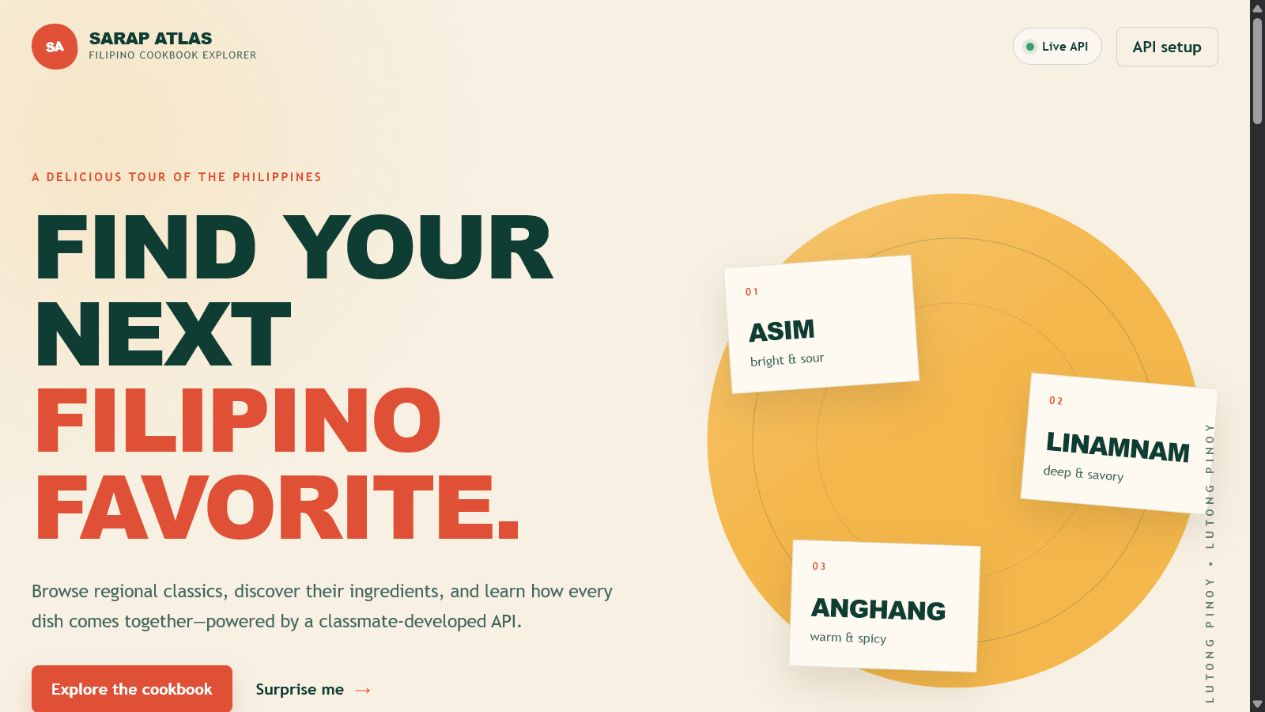
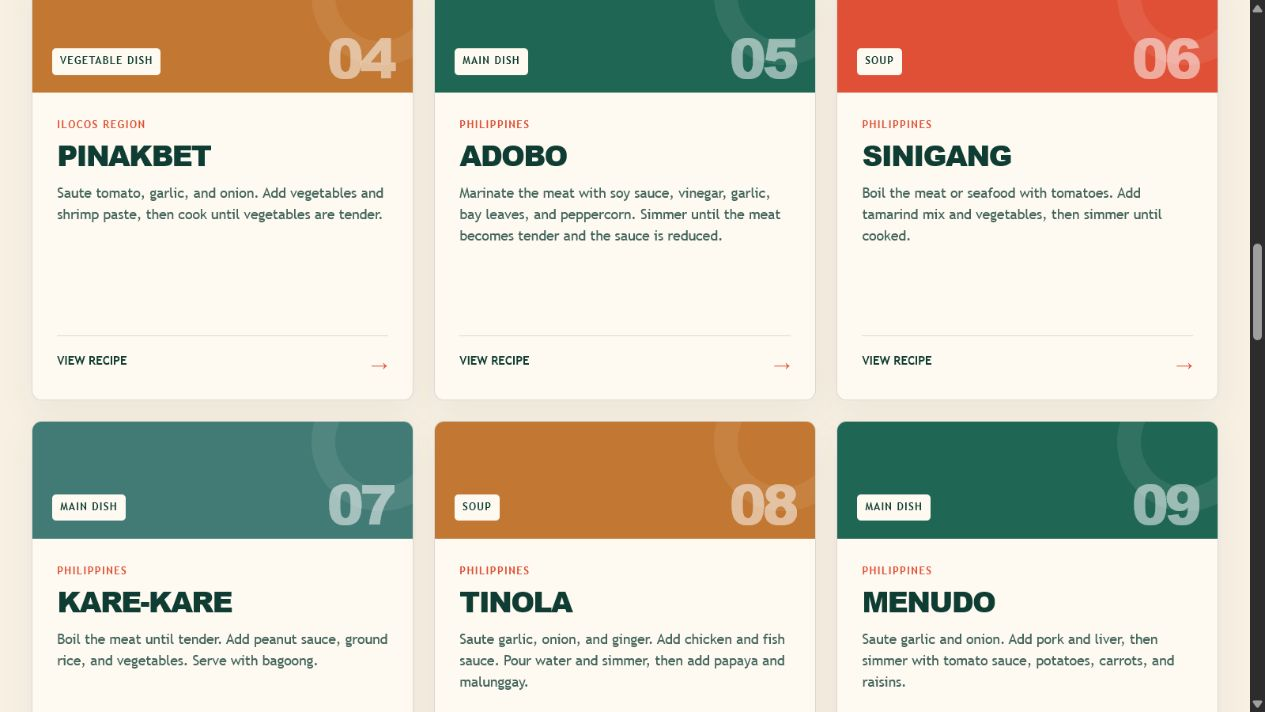
Integrate Louise Sanchez cookbook API

diff --git a/app/CookbookClient.tsx b/app/CookbookClient.tsx
@@ -24,8 +24,10 @@ const defaultSettings: SourceSettings = {
     "http://localhost:8080",
   token: "",
   developerName:
-    process.env.NEXT_PUBLIC_API_DEVELOPER || "[SELECTED CLASSMATE]",
-  repositoryUrl: process.env.NEXT_PUBLIC_API_REPOSITORY || "",
+    process.env.NEXT_PUBLIC_API_DEVELOPER || "Louise Sanchez",
+  repositoryUrl:
+    process.env.NEXT_PUBLIC_API_REPOSITORY ||
+    "https://github.com/louise-jpg/filipino-cookbook-api-sanchez",
 };
 
 function asText(value: unknown, fallback = ""): string {
@@ -38,6 +40,11 @@ function asId(value: unknown, fallback: number): number {
 }
 
 function normalizeIngredients(value: unknown): string[] {
+  if (value && typeof value === "object" && !Array.isArray(value)) {
+    const record = value as Record<string, unknown>;
+    if ("ingredients" in record) return normalizeIngredients(record.ingredients);
+  }
+
   if (Array.isArray(value)) {
     return value
       .map((item) => {
@@ -177,11 +184,14 @@ export default function CookbookClient() {
   }, [foods, search, category, origin]);
 
   async function apiRequest(path: string, source = settings): Promise<unknown> {
-    const response = await fetch(`${source.baseUrl}${path}`, {
+    const response = await fetch("/api/cookbook", {
+      method: "POST",
       headers: {
         Accept: "application/json",
         Authorization: `Bearer ${source.token}`,
+        "Content-Type": "application/json",
       },
+      body: JSON.stringify({ baseUrl: source.baseUrl, path }),
     });
     let payload: unknown;
     try {
@@ -206,7 +216,7 @@ export default function CookbookClient() {
       ...draftSettings,
       baseUrl: draftSettings.baseUrl.trim().replace(/\/$/, ""),
       developerName:
-        draftSettings.developerName.trim() || "[SELECTED CLASSMATE]",
+        draftSettings.developerName.trim() || "Louise Sanchez",
     };
     if (!source.baseUrl || !source.token) {
       setError("Enter the API base URL and bearer token.");
@@ -305,7 +315,7 @@ export default function CookbookClient() {
   }
 
   const activeDeveloper =
-    mode === "live" ? settings.developerName : "[SELECTED CLASSMATE]";
+    mode === "live" ? settings.developerName : defaultSettings.developerName;
 
   return (
     <main>

diff --git a/app/api/cookbook/route.ts b/app/api/cookbook/route.ts
@@ -1,0 +1,64 @@
+const LOCAL_API_HOSTS = new Set(["localhost", "127.0.0.1", "::1"]);
+
+type ProxyRequest = {
+  baseUrl?: unknown;
+  path?: unknown;
+};
+
+function targetUrlFor(body: ProxyRequest): URL {
+  if (typeof body.baseUrl !== "string" || typeof body.path !== "string") {
+    throw new Error("The API base URL and endpoint path are required.");
+  }
+
+  const baseUrl = new URL(body.baseUrl);
+  if (
+    !["http:", "https:"].includes(baseUrl.protocol) ||
+    baseUrl.username ||
+    baseUrl.password
+  ) {
+    throw new Error("The API base URL is not valid.");
+  }
+  if (!LOCAL_API_HOSTS.has(baseUrl.hostname)) {
+    throw new Error("Only a locally running classmate API is allowed.");
+  }
+  if (baseUrl.hostname === "localhost") {
+    baseUrl.hostname = "127.0.0.1";
+  }
+  if (!body.path.startsWith("/api/") || body.path.includes("..")) {
+    throw new Error("The requested API endpoint is not allowed.");
+  }
+
+  return new URL(body.path, `${baseUrl.origin}/`);
+}
+
+export async function POST(request: Request) {
+  try {
+    const body = (await request.json()) as ProxyRequest;
+    const targetUrl = targetUrlFor(body);
+    const authorization = request.headers.get("authorization") ?? "";
+    const upstream = await fetch(targetUrl, {
+      headers: {
+        Accept: "application/json",
+        Authorization: authorization,
+      },
+      signal: AbortSignal.timeout(10_000),
+    });
+    const responseBody = await upstream.text();
+
+    return new Response(responseBody, {
+      status: upstream.status,
+      headers: {
+        "Cache-Control": "no-store",
+        "Content-Type":
+          upstream.headers.get("content-type") ?? "application/json",
+      },
+    });
+  } catch (error) {
+    const message =
+      error instanceof Error && error.name !== "TimeoutError"
+        ? error.message
+        : "The classmate API did not respond in time.";
+
+    return Response.json({ status: "error", message }, { status: 502 });
+  }
+}

diff --git a/README.md b/README.md
@@ -14,6 +14,7 @@ Sarap Atlas is a responsive web client that consumes a classmate-developed Filip
 - Bearer token kept only in memory for the current browser tab.
 - Demo preview for interface review before the selected API is running.
 - Visible acknowledgment of the selected API developer.
+- Same-origin API forwarding for compatibility with the selected local API, which does not send browser CORS headers.
 - Compatibility with both `{ "status": "success", "data": [...] }` responses and APIs that return arrays directly.
 
 ## Technologies Used
@@ -29,15 +30,15 @@ Sarap Atlas is a responsive web client that consumes a classmate-developed Filip
 
 ## API Source and Acknowledgment
 
-This client must be finalized with a Filipino Cookbook API developed by a classmate.
+This client uses the Filipino Cookbook API developed by classmate Louise Sanchez.
 
-- Developer: **[NAME OF SELECTED CLASSMATE]**
-- GitHub username: **[CLASSMATE GITHUB USERNAME]**
-- API repository: **[CLASSMATE API REPOSITORY URL]**
-- API base URL: **[CLASSMATE API BASE URL]**
+- Developer: **Louise Sanchez**
+- GitHub username: **louise-jpg**
+- API repository: **https://github.com/louise-jpg/filipino-cookbook-api-sanchez**
+- API base URL: **http://localhost:8080**
 - Authentication: **Bearer token**
 
-The API is used for educational purposes with the permission of the developer. Replace the bracketed fields before submission. The same developer name and repository URL can be entered in the application’s **API setup** panel.
+The API is used for educational purposes with the permission of the developer. The same developer name and repository URL are prefilled in the application’s **API setup** panel.
 
 ## Endpoints Used
 
@@ -51,7 +52,7 @@ Used when the selected API provides the optional enhancements:
 - `GET /api/foods/random` - selects a random dish.
 - `GET /api/foods/{id}/ingredients` - supplements a detail response that has no ingredient list.
 
-The client performs category, origin, and free-text filtering on the food list already retrieved from the API. If the optional detail/random endpoints are unavailable, it falls back gracefully to the loaded list data.
+The client performs category, origin, and free-text filtering on the food list already retrieved from the API. If the optional detail/random endpoints are unavailable, it falls back gracefully to the loaded list data. Browser requests pass through the client’s `/api/cookbook` route because the selected local API does not include CORS response headers. The route accepts only `http` or `https` APIs hosted on `localhost`, `127.0.0.1`, or `::1`, and only forwards `/api/*` requests.
 
 ## Installation
 
@@ -128,7 +129,7 @@ npm test
 For the final integration test:
 
 1. Run the selected classmate API.
-2. Confirm its CORS configuration allows the client origin.
+2. Confirm the client’s same-origin forwarding route can reach the API; Louise Sanchez’s API does not include CORS headers.
 3. Connect with a valid token.
 4. Verify the food list, search/filter controls, random button, and recipe modal.
 5. Try a missing/invalid token and confirm an understandable error is shown.
@@ -143,7 +144,7 @@ For the final integration test:
 ## Developer Information
 
 - Student: **KURT TANGALIN**
-- Course and section: **[ADD COURSE AND SECTION]**
+- Course and section: **BSIT 3C**
 - GitHub username: **Kurt14-eng**
 - Client repository: **https://github.com/Kurt14-eng/filipino-cookbook-client-tangalin**
 - Date completed: **2026-07-31**

diff --git a/SUBMISSION_CHECKLIST.md b/SUBMISSION_CHECKLIST.md
@@ -1,11 +1,11 @@
 # Client Submission Checklist
 
-- [ ] Confirm the selected API belongs to a classmate, not the client developer.
-- [ ] Obtain the classmate’s permission and record their name and repository URL.
-- [ ] Add the course/section and selected-classmate fields in `README.md`.
+- [x] Confirm the selected API belongs to a classmate, not the client developer.
+- [ ] Confirm permission to use Louise Sanchez’s API for this educational activity.
+- [x] Add the course/section and selected-classmate fields in `README.md`.
 - [ ] Create the public repository `filipino-cookbook-client-tangalin`.
-- [ ] Run the selected API and confirm its CORS policy allows the client.
-- [x] Test with a valid token and an invalid token against the verification API.
+- [x] Run the selected API; confirm it has no CORS headers and verify the client’s same-origin forwarding route.
+- [x] Test with a valid token and an invalid token against Louise Sanchez’s cloned API.
 - [x] Verify the food list, search, filters, random action, and recipe details.
 - [x] Confirm the token is not present in tracked files or screenshots.
 - [x] Run the production build, rendered-interface tests, and lint.
